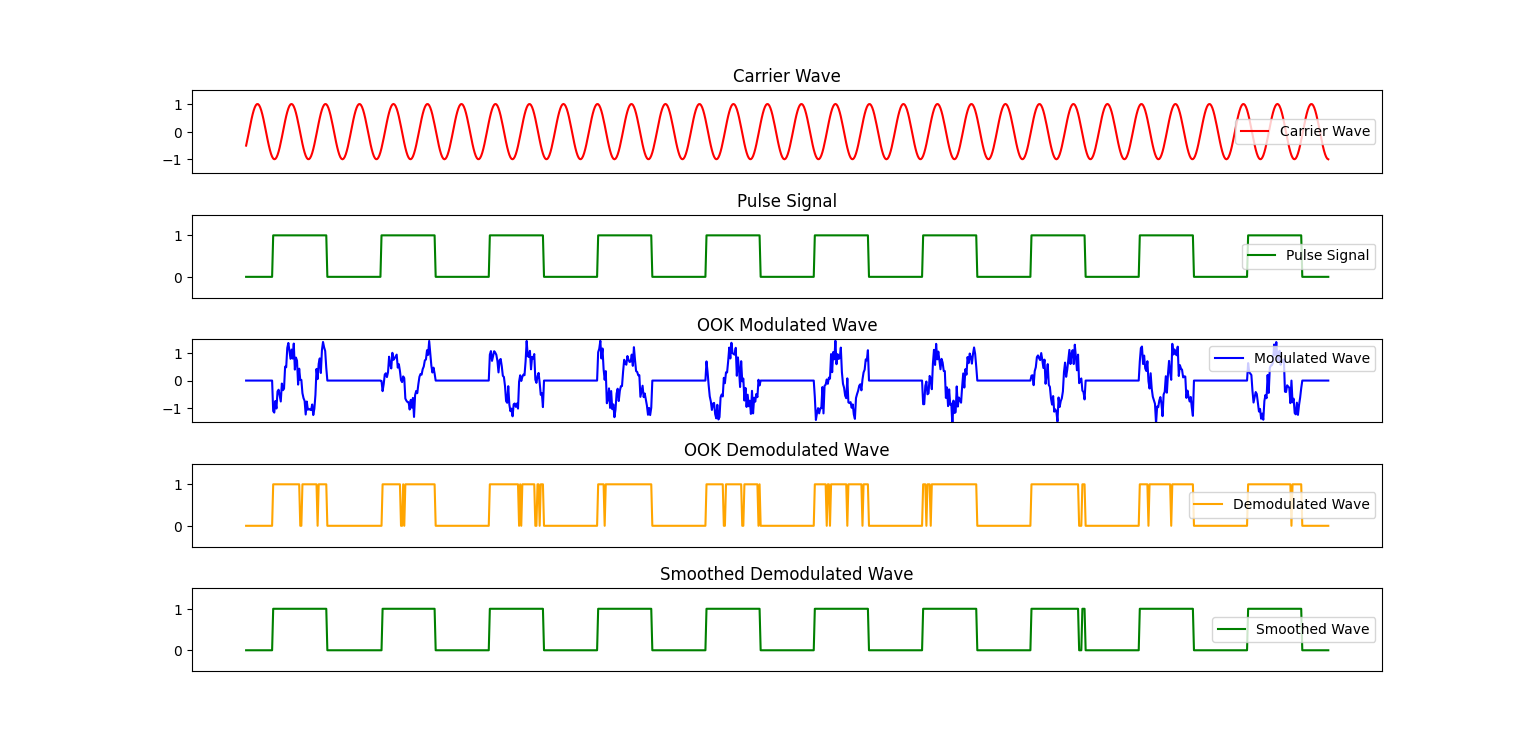
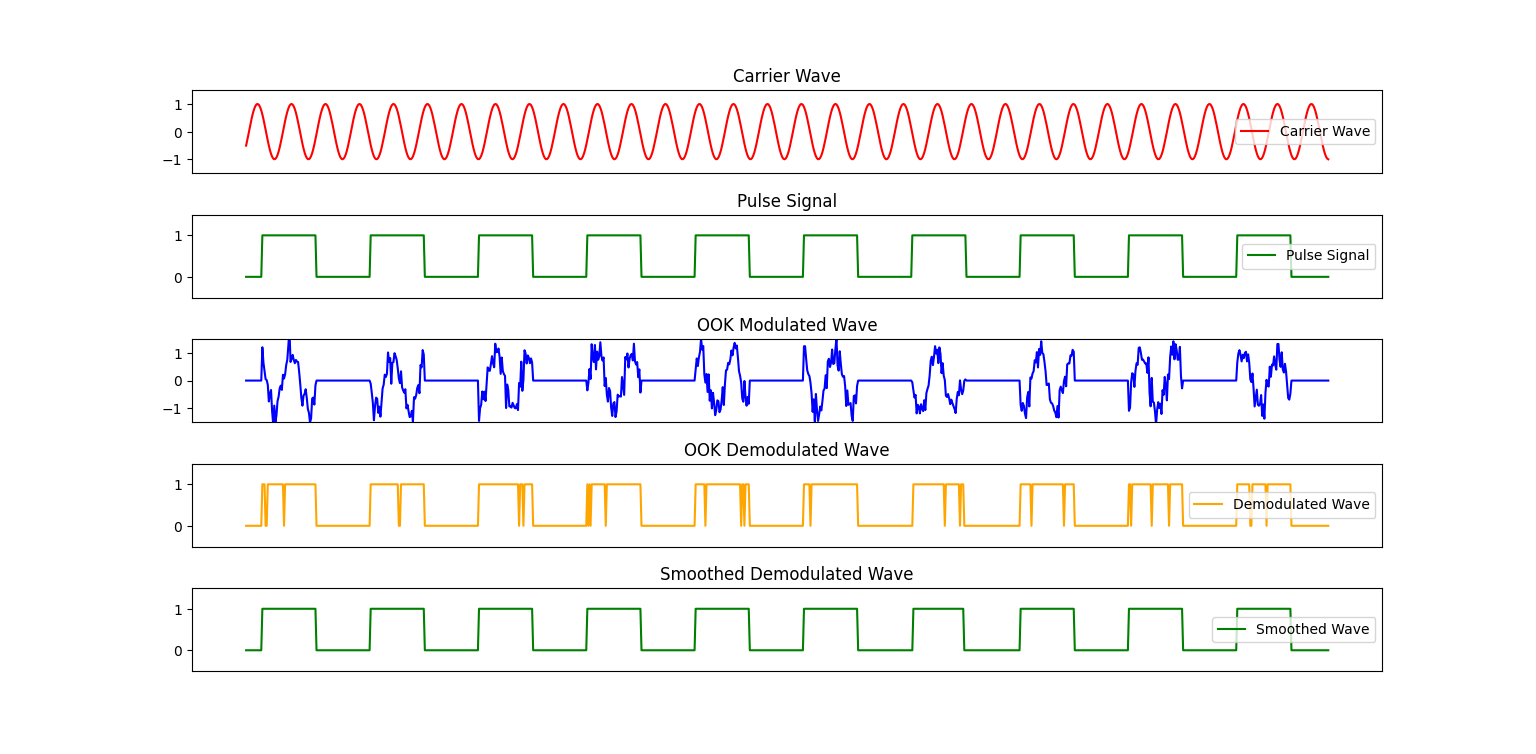
Add noise to OOK modulation in OOK.py

diff --git a/OOK.py b/OOK.py
@@ -38,6 +38,7 @@ def animate(frame):
     modulated_wave = (carrier_wave * pulse_signal)
 
     # Noise
+    np.random.seed(13213)
     noise_amplitude = 0.3 # Set the value to 0.0 to eliminate noise
     modulated_wave += np.random.normal(loc=0, scale=noise_amplitude, size=len(x)) * (pulse_signal > 0)
 
@@ -59,10 +60,10 @@ def animate(frame):
     ax[1].legend()
 
     # Plot the updated modulated signal
-    ax[2].plot(x, modulated_wave, label='Modulated Wave', color='blue')
+    ax[2].plot(x, modulated_wave, color='blue')
     ax[2].set_title('OOK Modulated Wave')
     ax[2].set_ylim(-1.5, 1.5)
-    ax[2].legend()
+    # ax[2].legend()
 
     # Plot the updated demodulated signal
     ax[3].plot(x, demodulated_wave, label='Demodulated Wave', color='orange')
